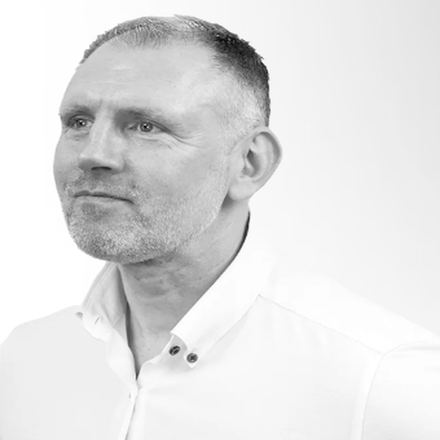
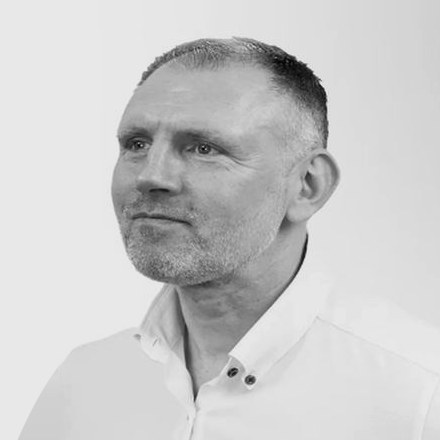
Team: centre Malcolm's portrait and remove Warren's contact details
- Reframe Malcolm Brechin's portrait so the head sits centred with
  headroom, in line with the other three; the shoulder and background
  are continued into the extended edges, and the clipped white is
  brought down to a light studio grey so it no longer reads as a bright
  tile beside the others.
- Remove Warren Kemp's email address and telephone number, together
  with the now unused contact row and its styles.
- Let each introduction start beneath the role and run on beside the
  portrait, so the space below the role is filled rather than left
  empty; the full profile disclosure clears the portrait.

Claude-Session: https://claude.ai/code/session_018kipkFpiUetBWkkM9bffva

diff --git a/frontend/src/components/sections/clarity.css b/frontend/src/components/sections/clarity.css
@@ -137,17 +137,15 @@
 .evidence-source::before { content: ''; position: absolute; left: -2px; top: 0; bottom: 0; width: 2px; background: var(--vc-brass-400); transform-origin: top; }
 .evidence-source > figcaption { margin-top: 0.25rem; }
 
-/* A useful introduction, with every approved profile still available. */
+/* A useful introduction, with every approved profile still available. The introduction starts
+   beneath the role and runs on beside the portrait before taking the full width. */
 .clarity-team { display: grid; gap: 3rem; margin-top: 3rem; }
 .team-member { min-width: 0; border-top: 1px solid var(--vc-rule-strong); padding-top: 1.5rem; }
-.team-identity { min-height: 112px; }
 .team-portrait { float: left; width: 100px; height: 100px; object-fit: cover; margin: 0 1.5rem 0.75rem 0; filter: saturate(0.7); }
 .team-name { font-size: 1.875rem; line-height: 1.15; padding-top: 0.1rem; }
 .team-role { color: var(--vc-brass-700); font-size: 0.875rem; line-height: 1.5; margin-top: 0.4rem; }
-.team-contact { font-size: 0.8125rem; margin-top: 0.4rem; overflow-wrap: anywhere; }
-.team-contact a { display: inline-flex; align-items: center; min-height: 44px; color: var(--vc-azure-700); text-decoration: underline; text-underline-offset: 3px; }
-.team-summary { clear: both; margin-top: 1.25rem; font-size: 0.9375rem; color: var(--vc-graphite); }
-.team-full-profile { margin-top: 1rem; }
+.team-summary { margin-top: 0.875rem; font-size: 0.9375rem; color: var(--vc-graphite); }
+.team-full-profile { clear: both; margin-top: 1rem; }
 .team-full-profile > summary { cursor: pointer; padding: 0.6rem 0; min-height: 44px; font-size: 0.9375rem; font-weight: 500; color: var(--vc-azure-700); text-decoration: underline; text-underline-offset: 4px; }
 .team-cell { margin-top: 1.5rem; font-size: 0.9375rem; }
 .team-bio + .team-bio { margin-top: 1rem; }
@@ -251,9 +249,6 @@
   .team-heading { min-width: 0; overflow-wrap: anywhere; }
   .team-name { font-size: 1.5rem; line-height: 1.15; padding: 0; text-wrap: initial; }
   .team-role { font-size: 0.8125rem; line-height: 1.45; color: var(--vc-graphite); }
-  .team-contact { grid-column: 1 / -1; display: flex; flex-wrap: wrap; column-gap: 1rem; margin-top: 0; font-size: 0.8125rem; }
-  .team-contact > span { display: none; }
-  .team-contact a { min-height: 36px; }
   .team-summary-desktop { display: none; }
   .team-summary-mobile { display: block; }
   .team-summary { margin-top: 1rem; font-size: 0.9375rem; line-height: 1.6; }

diff --git a/frontend/src/content/home.js b/frontend/src/content/home.js
@@ -532,8 +532,6 @@ export const FOUNDER = {
       summary: "Warren is a construction and engineering disputes solicitor and a partner at gunnercooke LLP. His practice spans adjudication, arbitration, mediation and TCC litigation, advising contractors, developers, consultants and insurers. Previously joint head of construction and engineering at DAC Beachcroft, he brings more than twenty years of legal practice to VeriCase. His contribution centres on the commercial judgement, evidential discipline and clear argument that construction disputes require.",
       role: 'Co-Founder · Dispute Resolution | Partner, gunnercooke LLP',
       photo: { src: '/assets/team/warren-kemp.jpg', alt: 'Warren Kemp' },
-      email: 'warren.kemp@gunnercooke.com',
-      tel: '+44 (0) 7470 332 945',
       bio:
         'Warren is a construction and engineering disputes solicitor of more than twenty years’ standing, admitted in 2002, who advises developers, contractors, subcontractors, professional consultants and their insurers across the public and private sectors. He trained and built his practice in Newcastle, first at Watson Burton and then at DAC Beachcroft, which he joined as a partner on 01 November 2013 and where, with James Harrison, he established the firm’s Newcastle construction practice and grew it to more than 25 specialist construction lawyers. He went on to lead DAC Beachcroft’s national construction and engineering team jointly with Mark Roach, a practice of over 50 senior lawyers in the United Kingdom and internationally, until joining gunnercooke LLP in February 2024. His work spans adjudication, arbitration, mediation and Technology and Construction Court litigation, together with the professional indemnity dimension of construction claims and the non-contentious drafting that prevents them. He is ranked in Chambers UK and The Legal 500, which has described him as “simply the best around”, and he writes regularly on construction law, including on CC Construction Limited v Mincione and on the contractual treatment of anaerobic digestion plants. Warren acts, among his various roles, as General Counsel to United Living, a business approaching £1bn turnover with a telecoms division, and previously spent 18 months in house on secondment at the global consultancy WS Atkins. He combines a pragmatic, commercial approach with the tenacity to see a dispute through to decision.',
       credentials: [

diff --git a/frontend/src/components/sections/Founder.jsx b/frontend/src/components/sections/Founder.jsx
@@ -18,13 +18,6 @@ export const Founder = () => (
                   <h3 id={`team-${slug}`} className="team-name">{person.name}</h3>
                   <p className="team-role">{person.role}</p>
                 </div>
-                {(person.email || person.tel) && (
-                  <p className="team-contact">
-                    {person.email && <a href={`mailto:${person.email}`}>{person.email}</a>}
-                    {person.email && person.tel && <span aria-hidden="true"> &nbsp; </span>}
-                    {person.tel && <a href={`tel:${person.tel.replace(/\(0\)/, '').replace(/[^+\d]/g, '')}`}>{person.tel}</a>}
-                  </p>
-                )}
               </div>
               <p className="team-bio team-summary team-summary-desktop">{person.summary}</p>
               <details className="team-full-profile">
